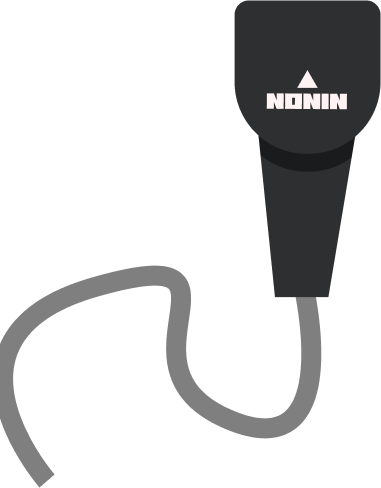
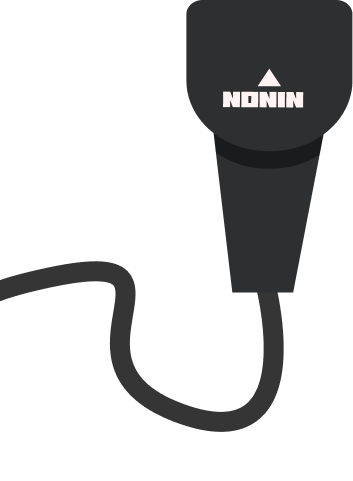
cables finished

Changed region(s): [[0.0, 0.0, 0.966, 0.9979], [0.9972, 0.0, 1.0, 0.1871], [0.966, 0.1871, 0.9972, 0.2495]]

diff --git a/src/Screens/Fragments/CablesFragment.js b/src/Screens/Fragments/CablesFragment.js
@@ -1,15 +1,29 @@
-import React, {  useState } from "react";
+import React, { useEffect, useState } from "react";
 import "./CablesFragmentt.css"
-
-
+import BlackVector from "../../Assets/res/Images/SimulationScreen/cables/blackVectorHideCable.svg"
+import GreyCableImage from "../../Assets/res/Images/SimulationScreen/cables/greyCable.png"
+import BlackCableImage from "../../Assets/res/Images/SimulationScreen/cables/blackCable.png"
+import GreyCableImagePressed from "../../Assets/res/Images/SimulationScreen/cables/greyCablePressed.png"
+import BlackCableImagePressed from "../../Assets/res/Images/SimulationScreen/cables/blackCablePressed.png"
+import GreyCable from "../../Assets/Components/SimulationScreenComponents/CablesComponents/GreyCable.js";
 function CablesFragment(props) {
-  
 
-  return (
-    <div className="container">
-     
-    </div>
-  );
+
+    return (
+        <div className="container-cable-fregments">
+            <div className="container-cable-divs" style={{backgroundColor: ""}}>
+          
+                <div className="grey-cable">
+                <GreyCable  cbFunction={props.setIsGreyCable} image={GreyCableImage} imagePressed={GreyCableImagePressed} ></GreyCable>
+                </div>
+                <div className="black-cable">
+                <GreyCable  cbFunction={props.setIsBlackCable} image={BlackCableImage} imagePressed={BlackCableImagePressed} ></GreyCable>
+                </div>
+                
+            </div>
+            
+        </div>
+    );
 
 }
 

diff --git a/src/Screens/SimulationScreen.js b/src/Screens/SimulationScreen.js
@@ -1,19 +1,39 @@
 import React, { useEffect, useState } from "react";
 import "./SimulationScreen.css"
 import SettingPanel from "./Fragments/SimulationFragments/SettingPanel";
+import CablesFragment from "./Fragments/CablesFragment";
 
 function SimulationScreen() {
   const [saturationInBlood, setSaturationInBlood] = useState(98)
   const [co2InBlow, setCo2InBlow] = useState(40)
+  const [isBlackCable, setIsBlackCable] = useState(false)
+  const [isGreyCable, setIsGreyCable] = useState(false)
   useEffect(() => {
     console.log(co2InBlow, saturationInBlood)
+  
+      console.log("black", isBlackCable)
+      console.log("grey", isGreyCable)
+
+
+
     
-  }, [saturationInBlood, co2InBlow])
+  }, [saturationInBlood, co2InBlow, isBlackCable, isGreyCable])
   return (
     <div className="simulation-screen-frame">
       <div className="simulation-screen-frame-star">
         <div className="main-div" style={{backgroundColor: ""}} >
-          <SettingPanel setCo2InBlow={setCo2InBlow} setSaturationInBlood={setSaturationInBlood} ></SettingPanel>
+          
+        <div  className="setting-panel">
+          <CablesFragment setIsGreyCable={setIsGreyCable} setIsBlackCable={setIsBlackCable}></CablesFragment>
+        </div>
+        <div className="setting-1">
+          <SettingPanel  setCo2InBlow={setCo2InBlow} setSaturationInBlood={setSaturationInBlood} ></SettingPanel>
+        </div>
+
+        
+
+
+        
         </div>
       </div>
     </div>

diff --git a/src/Screens/InfoScreen.js b/src/Screens/InfoScreen.js
@@ -1,13 +1,18 @@
-import React from "react";
-import SettingPanel from "./Fragments/SimulationFragments/SettingPanel";
-import GreyCable from "../Assets/Components/SimulationScreenComponents/CablesComponents/GreyCable";
+import React, { useEffect, useState } from "react";
+import GreyCableImage from "../Assets/res/Images/SimulationScreen/cables/greyCable.png"
+import BlackCableImage from "../Assets/res/Images/SimulationScreen/cables/blackCable.png"
+import GreyCableImagePressed from "../Assets/res/Images/SimulationScreen/cables/greyCablePressed.png"
+import BlackCableImagePressed from "../Assets/res/Images/SimulationScreen/cables/blackCablePressed.png"
+import CablesFragment from "./Fragments/CablesFragment";
+import GreyCable from "../Assets/Components/SimulationScreenComponents/CablesComponents/GreyCable.js";
 function InfoScreen() {
+  
+
   return (
     <div>InfoScreen
-    <GreyCable></GreyCable>
-    </div>
 
-    );
+    </div>
+  );
 
 }
 

diff --git a/src/Assets/Components/SimulationScreenComponents/CablesComponents/GreyCable.js b/src/Assets/Components/SimulationScreenComponents/CablesComponents/GreyCable.js
@@ -1,18 +1,21 @@
 import React, { useState } from "react";
-import { useNavigate , Link } from "react-router-dom";
-import GreyCableImage from "../../../res/Images/SimulationScreen/cables/greyCabel.png"
-import "./GreyCabele.css"
-function GreyCable() {
+
+import "./GreyCable.css"
+function GreyCable(props) {
     const [click, setClick] = useState(false)
 
+    function clickHandle(){
+      setClick(prev => !prev)
+      props.cbFunction(prev => !prev)
+    }
   return (
     <div className="container">
-        <button className="container-btn" onClick={setClick(prev => !prev)}>
-        <img  src={GreyCableImage} className="" />
+        <button className="container-btn" onClick={() => {clickHandle()}}>
+        <img  src={click ? props.imagePressed : props.image} className="container-img" />
         </button>    
     </div>
     );
 
 }
-
+ 
 export default GreyCable;

diff --git a/src/Screens/Fragments/CablesFragmentt.css b/src/Screens/Fragments/CablesFragmentt.css
@@ -1,0 +1,30 @@
+.container-cable-fregments{
+    width: 100%;
+    height: 100%;
+}
+
+
+.container-cable-divs{
+    display: grid;
+    grid-template-columns: 1fr 1fr;
+    grid-template-rows: 1fr;
+    column-gap: 5%;
+    position: absolute;
+    bottom: 0%;
+    width: 100%;
+    height: 30%;
+}
+.grey-cable{
+    /* background-color: rgb(24, 65, 216); */
+    
+    margin-left: 15%;
+    grid-row: 1;
+    grid-column: 2;
+}
+
+.black-cable{
+    /* background-color: yellow; */
+    margin-right: 15%;
+    grid-row: 1;
+    grid-column: 1;
+}

diff --git a/src/Assets/Components/SimulationScreenComponents/CablesComponents/GreyCable.css b/src/Assets/Components/SimulationScreenComponents/CablesComponents/GreyCable.css
@@ -1,13 +1,24 @@
-.container{
-    display: flex;
-    align-content: center;
-}
+.container-cable{
+    width: 100%;
+    height: 100%;
+   }
 .container-btn{
+    width: 100%;
+    height: 100%;
+    margin-top: 10%;
+    height: auto;
     border-style: none;
     background: none;
+    
 
+}
+.container-btn::after,
+.container-btn:active{
+    
+    transition:all 0.05s ease-in-out;
 }
 .container-img{
     width: 100%;
     height: 100%;
 }
+

diff --git a/src/Screens/SimulationScreen.css b/src/Screens/SimulationScreen.css
@@ -3,14 +3,13 @@
     position: absolute;
     width: 100vw;
     overflow: hidden;
-
     height: 100vh;
     background-color: #353535;
 
 }
 
 .main-div{
-    display: block;
+    position: relative;
     margin-left: auto;
     margin-right: auto;
     width: 100vw;
@@ -31,3 +30,6 @@
     background-repeat: no-repeat;
 }
  
+
+
+

diff --git a/src/Screens/Fragments/SimulationFragments/SettingPanel.js b/src/Screens/Fragments/SimulationFragments/SettingPanel.js
@@ -8,7 +8,7 @@ function SettingPanel(props) {
   
 
   return (
-    <div className="container">
+    <div className=".container-setting-panel">
       <div className="div-btn" >
      <SettingBtn cbFunction={setIsSettingBtnClicked}></SettingBtn>
      </div>

diff --git a/src/Screens/Fragments/SimulationFragments/SettingPanel.css b/src/Screens/Fragments/SimulationFragments/SettingPanel.css
@@ -1,4 +1,4 @@
-.container {
+.container-setting-panel {
     width: 100%;
     height: 100%;
 }
